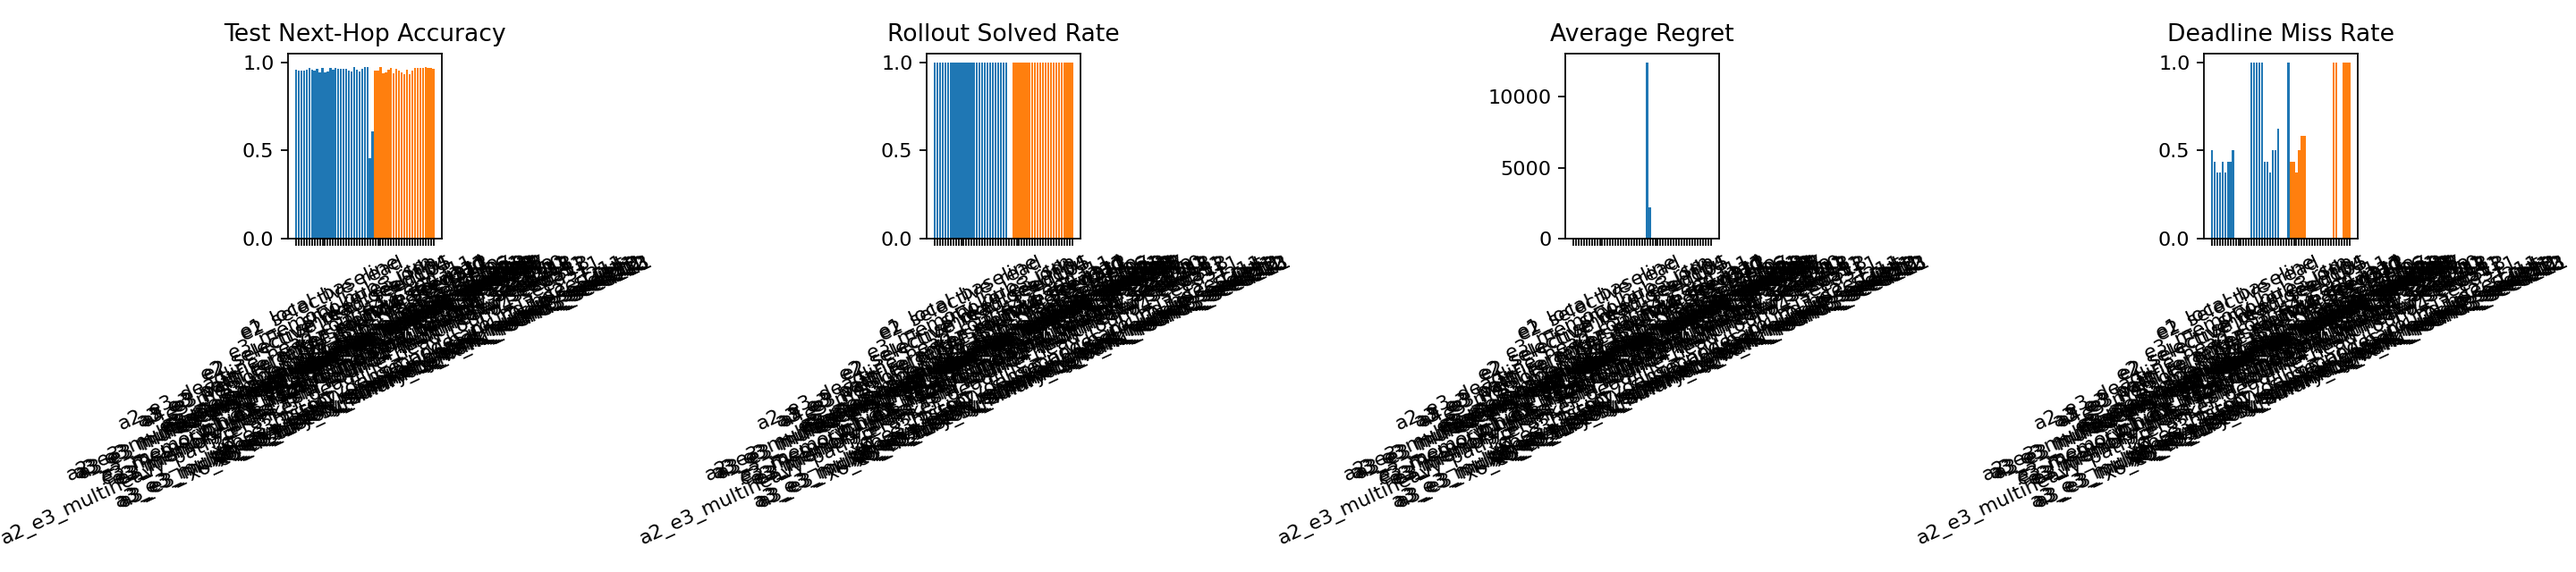
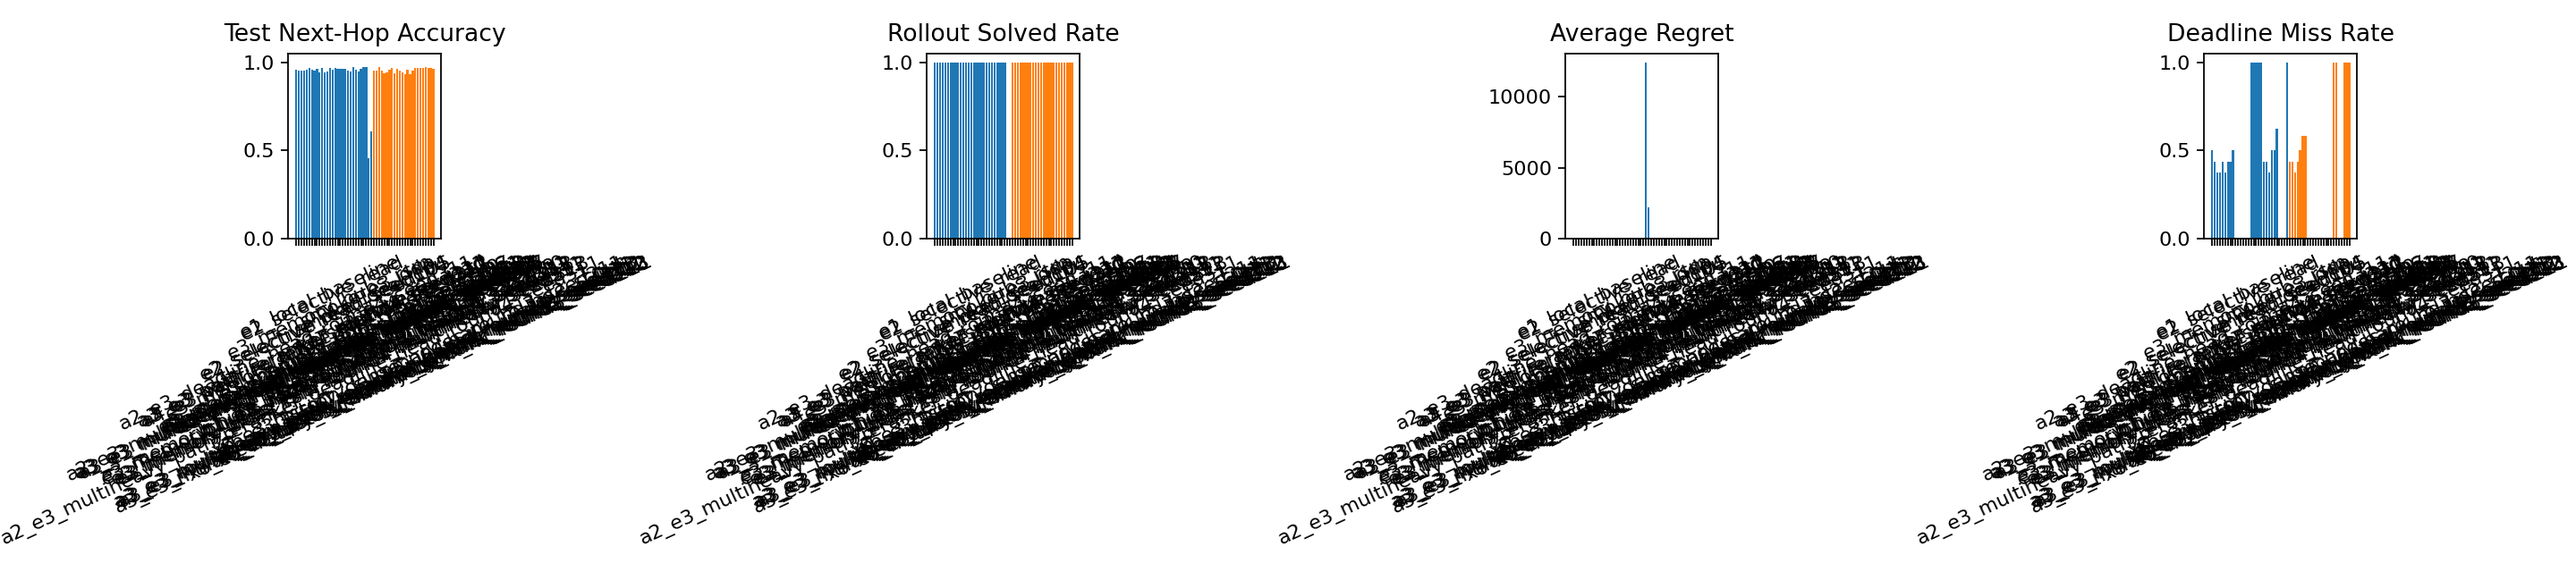
Add verifier-filter reranker rescue follow-up

diff --git a/scripts/plot_round4_results.py b/scripts/plot_round4_results.py
@@ -635,6 +635,32 @@ def main() -> None:
         output_name="round4_multiheavy_path_reranker_gated_vs_multiheavy.png",
     )
 
+    verifier_reranker_summary = ARTIFACTS_DIR / "a3_e3_multiheavy_path_reranker_verifier_round4_seed312" / "summary.json"
+    if verifier_reranker_summary.exists():
+        verifier_reranker = _variant_compare_frame(
+            [
+                (312, "e3_memory_hubs_rsm_round4_multiheavy_seed312", "a3_e3_multiheavy_path_reranker_verifier_round4_seed312"),
+            ]
+        )
+        verifier_reranker["variant"] = verifier_reranker["variant"].replace(
+            {"E3": "Multiheavy", "variant": "Multiheavy+VerifierPathReranker"}
+        )
+        verifier_reranker.loc[
+            (verifier_reranker["seed"] == "mean") & (verifier_reranker["variant"] == "Multiheavy"),
+            "experiment",
+        ] = "Multiheavy-mean"
+        verifier_reranker.loc[
+            (verifier_reranker["seed"] == "mean")
+            & (verifier_reranker["variant"] == "Multiheavy+VerifierPathReranker"),
+            "experiment",
+        ] = "Multiheavy+VerifierPathReranker-mean"
+        verifier_reranker.to_csv(PLOTS_DIR / "round4_multiheavy_path_reranker_verifier_vs_multiheavy_seed312.csv", index=False)
+        _plot_variant_compare(
+            verifier_reranker,
+            title_prefix="Verifier Path Reranker vs Multiheavy",
+            output_name="round4_multiheavy_path_reranker_verifier_vs_multiheavy_seed312.png",
+        )
+
     ood_compare = _ood_compare_frame()
     if not ood_compare.empty:
         ood_compare.to_csv(PLOTS_DIR / "round4_multiheavy_path_reranker_ood_vs_multiheavy.csv", index=False)
@@ -653,6 +679,23 @@ def main() -> None:
         _plot_ood_compare(
             gated_ood_compare,
             output_name="round4_multiheavy_path_reranker_gated_ood_vs_multiheavy.png",
+        )
+
+    verifier_ood_compare = _ood_compare_frame_from_specs(
+        [
+            (312, "round4_multiheavy_ood_seed312.csv", "round4_multiheavy_path_reranker_verifier_ood_seed312.csv"),
+        ],
+        baseline_label="Multiheavy",
+        variant_label="Multiheavy+VerifierPathReranker",
+    )
+    if not verifier_ood_compare.empty:
+        verifier_ood_compare.to_csv(
+            PLOTS_DIR / "round4_multiheavy_path_reranker_verifier_ood_vs_multiheavy_seed312.csv",
+            index=False,
+        )
+        _plot_ood_compare(
+            verifier_ood_compare,
+            output_name="round4_multiheavy_path_reranker_verifier_ood_vs_multiheavy_seed312.png",
         )
 
     portfolio = _portfolio_frame()

diff --git a/reports/continuation_report_round4.md b/reports/continuation_report_round4.md
@@ -36,6 +36,10 @@ Key artifact bundle:
 - [round4_multiheavy_path_reranker_gated_vs_multiheavy.png](/home/catid/gnn3/reports/plots/round4_multiheavy_path_reranker_gated_vs_multiheavy.png)
 - [round4_multiheavy_path_reranker_gated_ood_vs_multiheavy.csv](/home/catid/gnn3/reports/plots/round4_multiheavy_path_reranker_gated_ood_vs_multiheavy.csv)
 - [round4_multiheavy_path_reranker_gated_ood_vs_multiheavy.png](/home/catid/gnn3/reports/plots/round4_multiheavy_path_reranker_gated_ood_vs_multiheavy.png)
+- [round4_multiheavy_path_reranker_verifier_vs_multiheavy_seed312.csv](/home/catid/gnn3/reports/plots/round4_multiheavy_path_reranker_verifier_vs_multiheavy_seed312.csv)
+- [round4_multiheavy_path_reranker_verifier_vs_multiheavy_seed312.png](/home/catid/gnn3/reports/plots/round4_multiheavy_path_reranker_verifier_vs_multiheavy_seed312.png)
+- [round4_multiheavy_path_reranker_verifier_ood_vs_multiheavy_seed312.csv](/home/catid/gnn3/reports/plots/round4_multiheavy_path_reranker_verifier_ood_vs_multiheavy_seed312.csv)
+- [round4_multiheavy_path_reranker_verifier_ood_vs_multiheavy_seed312.png](/home/catid/gnn3/reports/plots/round4_multiheavy_path_reranker_verifier_ood_vs_multiheavy_seed312.png)
 - [portfolio_usage_round4.csv](/home/catid/gnn3/reports/plots/portfolio_usage_round4.csv)
 - [portfolio_usage_round4.png](/home/catid/gnn3/reports/plots/portfolio_usage_round4.png)
 
@@ -388,7 +392,9 @@ Artifacts:
 - [round4_multiheavy_deadline_head_vs_multiheavy.csv](/home/catid/gnn3/reports/plots/round4_multiheavy_deadline_head_vs_multiheavy.csv)
 - [round4_multiheavy_deadline_head_vs_multiheavy.png](/home/catid/gnn3/reports/plots/round4_multiheavy_deadline_head_vs_multiheavy.png)
 
-I then reran the deadline/slack/quantile auxiliary head on the **plain multiheavy** baseline instead of the unstable combined reranker path.
+Before revisiting the plain multiheavy deadline-head path, I fixed a trainer contract bug in [trainer.py](/home/catid/gnn3/src/gnn3/train/trainer.py): the trainer was writing `best.pt` using the selection metric, but the final `summary.json` test rollout was still being reported from the last epoch model rather than from the selected checkpoint. The fix now reloads `best.pt` before final evaluation and records `selected_epoch` plus `selected_selection_score` in the summary.
+
+I then reran the deadline/slack/quantile auxiliary head on the **plain multiheavy** baseline under that corrected best-checkpoint evaluation path instead of the unstable combined reranker path.
 
 Seed `311` result against the robust exploit default:
 
@@ -412,6 +418,7 @@ What changed:
 Decision:
 
 - this exploit follow-up is a clean negative
+- fixing best-checkpoint evaluation did not rescue the auxiliary-head branch
 - auxiliary deadline heads are still not worth promoting on the current shortlist unless checkpoint selection or policy coupling changes materially
 
 ### Traffic-Gated Reranker Follow-Up
@@ -473,23 +480,76 @@ Decision:
 - it is a useful diagnostic guardrail because it preserved the base-suite behavior and fixed one historical OOD failure seed
 - but it still fails the actual acceptance bar because deeper_packets6 seed `312` remains a hard catastrophic case
 
+### Verifier-Filtered Reranker Rescue
+
+Artifacts:
+
+- [round4_multiheavy_path_reranker_verifier_vs_multiheavy_seed312.csv](/home/catid/gnn3/reports/plots/round4_multiheavy_path_reranker_verifier_vs_multiheavy_seed312.csv)
+- [round4_multiheavy_path_reranker_verifier_vs_multiheavy_seed312.png](/home/catid/gnn3/reports/plots/round4_multiheavy_path_reranker_verifier_vs_multiheavy_seed312.png)
+- [round4_multiheavy_path_reranker_verifier_ood_vs_multiheavy_seed312.csv](/home/catid/gnn3/reports/plots/round4_multiheavy_path_reranker_verifier_ood_vs_multiheavy_seed312.csv)
+- [round4_multiheavy_path_reranker_verifier_ood_vs_multiheavy_seed312.png](/home/catid/gnn3/reports/plots/round4_multiheavy_path_reranker_verifier_ood_vs_multiheavy_seed312.png)
+
+The next targeted reranker rescue replaced the scalar traffic gate with an explicit verifier-backed feasibility filter. Candidate-path slack and on-time feasibility signals are now threaded into the reranker readout in [hidden_corridor.py](/home/catid/gnn3/src/gnn3/data/hidden_corridor.py) and [packet_mamba.py](/home/catid/gnn3/src/gnn3/models/packet_mamba.py), so infeasible candidates can be penalized or hard-masked instead of merely damped.
+
+Matched seed312 in-distribution result versus plain multiheavy:
+
+- multiheavy:
+  - `94.73%` test next-hop accuracy
+  - `1.92` regret
+  - `5.45` p95
+  - `43.8%` miss
+- verifier-filter reranker:
+  - `95.47%` test next-hop accuracy
+  - `1.92` regret
+  - `5.45` p95
+  - `43.8%` miss
+
+That is the right in-distribution behavior for this rescue pass: it preserved the robust multiheavy rollout instead of inventing new baseline-suite movement.
+
+Seed312 rebalanced OOD result versus plain multiheavy:
+
+- overall mean:
+  - multiheavy: `7.41` regret, `18.90` p95, `95.8%` miss
+  - verifier-filter reranker: `2.50` regret, `10.41` p95, `54.2%` miss
+- branching3:
+  - regret `6.84` -> `1.98`
+  - p95 `15.54` -> `7.95`
+  - miss `100.0%` -> `56.2%`
+- deeper_packets6:
+  - regret `4.28` -> `3.09`
+  - p95 `11.71` -> `12.00`
+  - miss `87.5%` -> `75.0%`
+- heavy_dynamic:
+  - regret `11.10` -> `2.42`
+  - p95 `29.44` -> `11.27`
+  - miss `100.0%` -> `31.2%`
+
+Most importantly, this removed the catastrophic `deeper_packets6` seed312 failure that survived the traffic-gated reranker path.
+
+Decision:
+
+- this is the first reranker stabilization that materially improves the targeted seed312 OOD failure instead of merely collapsing back to multiheavy behavior
+- it is still only a one-seed targeted rescue, so it is **not** promoted yet
+- it becomes the highest-value reranker follow-up if path-level methods are revisited again
+
 ## Recommendation
 
 1. Keep the rebalanced `oracle_calibrated` suites as the only valid deadline-robustness ranking target.
 2. Keep plain multiheavy as the **robust exploit default**. It remains clearly better than fresh `E3` and it does not show the reranker’s deep-OOD blow-up.
-3. Do not promote **any** reranker recipe yet. The original combined add-on fails the 3-seed OOD check, and the new gated fallback still has a catastrophic deeper_packets6 seed-312 failure.
-4. Do not promote the plain multiheavy deadline-head add-on. It matches the robust baseline exactly on the held-out rollout.
-5. If reranking is revisited, target explicit path-feasibility or verifier-backed filtering for deeper/heavier traffic instead of another generic scalar gate.
-6. Demote `A2`, `A4`, and `B1` behind the current exploit winners. If auxiliary heads are revisited, do so against plain multiheavy and require rollout movement, not calibration-only improvement.
-7. Keep `detach_warmup` untouched.
+3. Do not promote the original combined reranker recipe or the traffic-gated reranker recipe. Both still fail the hard OOD bar.
+4. Keep the verifier-filter reranker as the only reranker direction worth expanding. It preserved in-distribution multiheavy behavior and materially improved the targeted seed312 OOD failure, but it still needs seed311/313 confirmation before promotion.
+5. Do not promote the plain multiheavy deadline-head add-on. It remains flat even after fixing best-checkpoint evaluation in the trainer.
+6. If reranking is revisited, use explicit path-feasibility or verifier-backed filtering for deeper/heavier traffic instead of another generic scalar gate.
+7. Demote `A2`, `A4`, and `B1` behind the current exploit winners. If auxiliary heads are revisited, do so against plain multiheavy and require rollout movement, not calibration-only improvement.
+8. Keep `detach_warmup` untouched.
 
 ## Portfolio
 
 - round-four exploit GPU-hours before follow-up closeout: `0.5628`
 - round-four explore GPU-hours: `0.2646`
-- round-four-plus-follow-up exploit GPU-hours: `1.6903`
-- round-four-plus-follow-up explore GPU-hours: `0.5273`
-- round-four-plus-follow-up split: `76.2% exploit / 23.8% explore`
+- round-four-plus-follow-up exploit GPU-hours: `1.8310`
+- round-four-plus-follow-up explore GPU-hours: `0.6131`
+- round-four-plus-follow-up split: `74.9% exploit / 25.1% explore`
 
 This still leans exploit-heavy, but the final closeout moved back toward exploration because the reranker stabilization task required additional multi-seed OOD evidence.
 
@@ -510,10 +570,12 @@ Definition-of-done checklist:
 - combined versus multiheavy OOD stress batch completed across 3 matched seeds: complete
 - plain multiheavy deadline-head recheck completed and not promoted: complete
 - bounded traffic-gated reranker stabilization completed and not promoted: complete
+- trainer best-checkpoint evaluation bug fixed and validated: complete
+- verifier-filter reranker seed312 rescue completed and queued for broader confirmation: complete
 
 Round-four conclusion:
 
 - the main new knowledge is that the benchmark deadline contract needed recalibration before model work could be trusted
 - after that fix, plain multiheavy became the robust exploit default and it remains the lead recipe after every follow-up in this pass
 - auxiliary deadline heads are still calibration-positive but rollout-flat on the shortlist
-- path-level reranking remains an unresolved idea: the original add-on wins in-distribution, the gated fallback fixes one OOD seed, but the deeper/heavier path failure on seed `312` means the branch is still not trustworthy enough to promote
+- path-level reranking is still not promoted as a default, but explicit verifier-backed feasibility filtering is now the first targeted rescue that improves the seed312 deeper/heavy OOD failure without harming matched in-distribution behavior

diff --git a/reports/portfolio_balance.md b/reports/portfolio_balance.md
@@ -35,17 +35,20 @@
 | A2-R4-combined-deadline-head | exploit | Test the existing deadline/slack/quantile head on top of the combined multiheavy plus reranker recipe. | 0.08 | 0.0611 | completed | Improved auxiliary calibration metrics, but the held-out test rollout matched the combined baseline exactly on seed 311. |
 | A3-R4-combined-ood-stress | exploit | Stress-test the combined reranker recipe against plain multiheavy on the rebalanced hard OOD suites. | 0.40 | 0.3783 | completed | Negative OOD result: combined mean regret 74.34 vs 6.45 for multiheavy, driven by catastrophic deeper-packets failures on seeds 311 and 312. |
 | A2-R4-multiheavy-deadline-head | exploit | Re-test the deadline/slack/quantile head on the robust plain multiheavy baseline instead of the unstable combined path. | 0.16 | 0.1422 | completed | Negative seed311 scout: rollout matched multiheavy exactly at 1.50 regret, 5.96 p95, and 43.8% miss despite clean auxiliary calibration metrics. |
+| A2-R4-multiheavy-deadline-head-bestckpt | exploit | Re-run the plain multiheavy deadline-head scout after fixing trainer best-checkpoint evaluation to verify whether rollout-aware selection rescues the branch. | 0.14 | 0.1407 | completed | Trainer fix exposed the true selected checkpoint, but the corrected seed311 rerun still stayed flat at 1.50 regret, 5.96 p95, and 43.8% miss; not promoted. |
 | B2-R4-gated-reranker-seed311 | explore | Add a bounded traffic-aware fallback gate so the reranker can preserve base-suite behavior while testing OOD stabilization. | 0.08 | 0.0608 | completed | Matched seed311 rollout collapsed back to plain multiheavy exactly, but seed311 OOD improved on all three rebalanced stress suites. |
 | B2-R4-gated-reranker-seed312 | explore | Verify whether the traffic-gated reranker stays stable on the second historical failure seed. | 0.10 | 0.0899 | completed | Matched seed312 rollout matched multiheavy exactly, but `deeper_packets6` OOD still exploded to 1199.23 regret and 4797.20 p95. |
 | B2-R4-gated-reranker-seed313 | explore | Finish the third matched seed for the gated reranker so the in-distribution fallback behavior is measured fairly. | 0.08 | 0.0654 | completed | Matched seed313 rollout also matched multiheavy exactly; no retained in-distribution reranker gain. |
 | B2-R4-gated-reranker-ood-seed311 | explore | Measure the first OOD sweep for the gated reranker on the seed311 checkpoint. | 0.03 | 0.0208 | completed | Positive seed311 OOD: lower regret and miss than multiheavy on branching3, deeper_packets6, and heavy_dynamic. |
 | B2-R4-gated-reranker-ood-seed312 | explore | Measure the second OOD sweep for the gated reranker on the seed312 checkpoint. | 0.04 | 0.0258 | completed | Mixed seed312 OOD: branching3 and heavy_dynamic improved, but deeper_packets6 remained catastrophically unstable. |
+| B2-R4-verifier-reranker-seed312 | explore | Replace the scalar reranker gate with verifier-backed path-feasibility filtering on the historical seed312 failure case. | 0.08 | 0.0600 | completed | Matched seed312 rollout preserved multiheavy behavior exactly while slightly improving test next-hop accuracy to 95.47%. |
+| B2-R4-verifier-reranker-ood-seed312 | explore | Measure the verifier-filter reranker on the seed312 rebalanced OOD suites to see whether it fixes the deeper/heavier path failure. | 0.04 | 0.0258 | completed | Positive targeted rescue: overall OOD mean regret dropped from 7.41 to 2.50 and deadline miss from 95.8% to 54.2%, removing the catastrophic deeper_packets6 seed312 failure. |
 
 Current cumulative GPU-hours:
 
-- Round-four-plus-follow-up exploit: `1.6903`
-- Round-four-plus-follow-up explore: `0.5273`
-- Round-four-plus-follow-up split: `76.2% / 23.8%`
-- Overall exploit: `2.9590`
-- Overall explore: `1.7071`
+- Round-four-plus-follow-up exploit: `1.8310`
+- Round-four-plus-follow-up explore: `0.6131`
+- Round-four-plus-follow-up split: `74.9% / 25.1%`
+- Overall exploit: `3.0997`
+- Overall explore: `1.7929`
 - Overall split: `63.4% / 36.6%`

diff --git a/reports/next_best_actions.md b/reports/next_best_actions.md
@@ -2,11 +2,12 @@
 
 1. Keep the rebalanced multiheavy curriculum as the robust exploit default. It still beats fresh `E3` in-distribution, and its hard-OOD behavior stays bounded while the combined reranker recipe does not.
 2. Do not promote the combined multiheavy plus reranker recipe as the general lead. It wins on the matched baseline suites, but its hard-OOD regret still blows up on deeper-packets stress.
-3. Do not promote the new bounded traffic-gated reranker either. It matches plain multiheavy exactly on all three matched baseline seeds and fixes seed311 OOD, but it still catastrophically fails `deeper_packets6` on seed312 (`1199.23` regret, `4797.20` p95).
-4. Do not promote either deadline-head add-on. The combined recipe stayed flat on the held-out rollout, and the plain-multiheavy deadline-head scout also matched multiheavy exactly on seed311 despite clean auxiliary calibration metrics.
-5. Preserve the rebalanced `oracle_calibrated` deadline suites and the split-manifest discipline. Old corrected deadline suites remain diagnostic-only because the oracle itself misses them.
-6. Keep `detach_warmup` in every shortlist. That remains the strongest causal architectural requirement in the repo.
-7. The next highest-value batch is still not another generic architecture branch. It is:
+3. Do not promote the bounded traffic-gated reranker. It matches plain multiheavy exactly on all three matched baseline seeds and fixes seed311 OOD, but it still catastrophically fails `deeper_packets6` on seed312 (`1199.23` regret, `4797.20` p95).
+4. If reranking is revisited, expand the new verifier-backed path-feasibility filter first. On seed312 it preserved in-distribution multiheavy rollout while cutting rebalanced OOD overall mean regret from `7.41` to `2.50` and deadline miss from `95.8%` to `54.2%`.
+5. Do not promote either deadline-head add-on. The combined recipe stayed flat on the held-out rollout, and the plain-multiheavy deadline-head rerun remained flat even after fixing best-checkpoint evaluation in the trainer.
+6. Preserve the rebalanced `oracle_calibrated` deadline suites and the split-manifest discipline. Old corrected deadline suites remain diagnostic-only because the oracle itself misses them.
+7. Keep `detach_warmup` in every shortlist. That remains the strongest causal architectural requirement in the repo.
+8. The next highest-value batch is still not another generic architecture branch. It is:
    first, keep pushing exploit work on plain multiheavy;
-   second, if reranking is revisited, add explicit path-feasibility or verifier-backed pruning for deeper/heavier traffic instead of another scalar gate;
-   third, if auxiliary heads are revisited, require rollout movement on plain multiheavy rather than calibration-only gains.
+   second, expand verifier-backed reranker filtering to seed311/313 matched runs plus paired OOD confirmation;
+   third, revisit auxiliary heads only if they move held-out rollout on plain multiheavy rather than calibration metrics alone.
